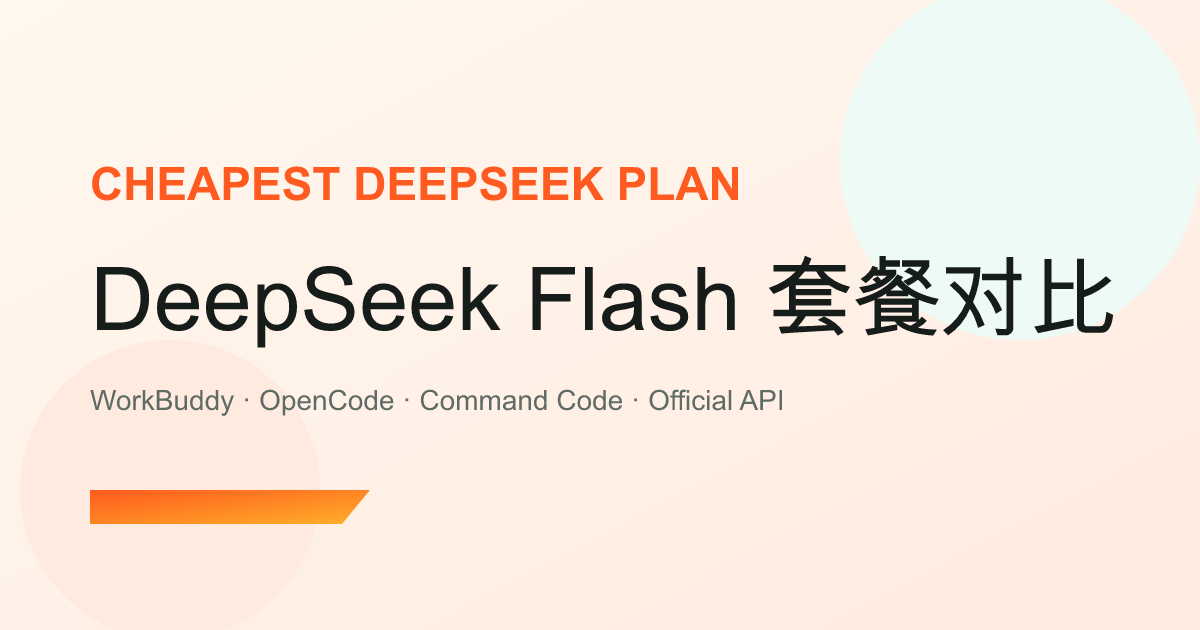
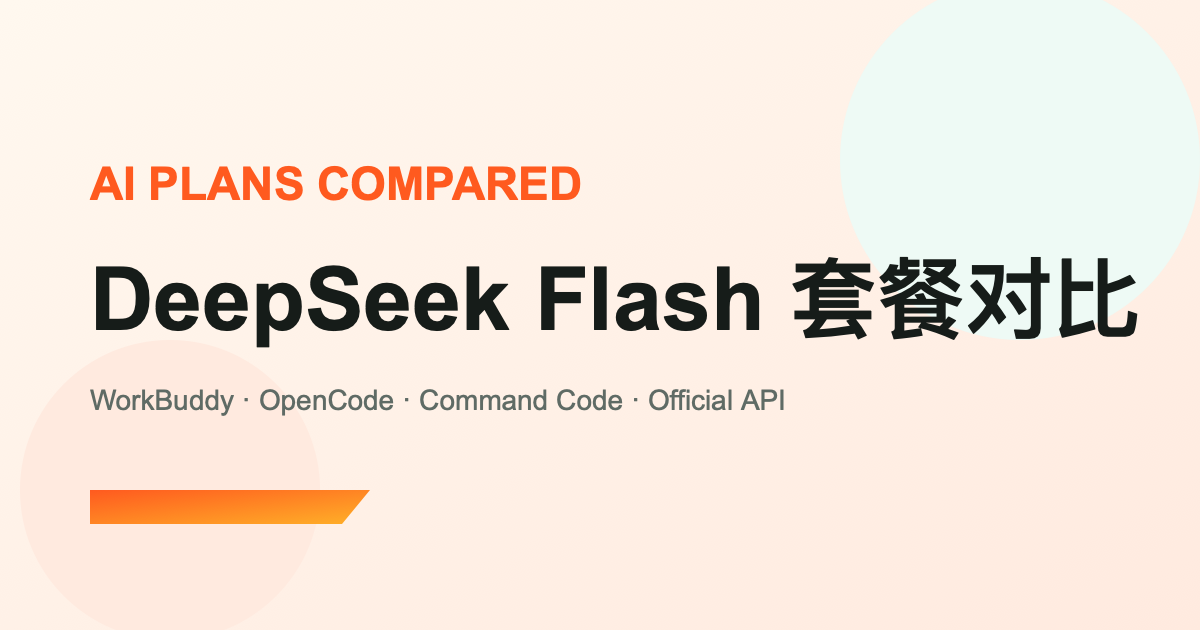
chore: rename site to AI Plans Compared (ai-plans-compared)

diff --git a/public/en/index.html b/public/en/index.html
@@ -8,23 +8,23 @@
   <meta name="keywords" content="cheapest DeepSeek plan, DeepSeek pricing, DeepSeek Flash, DeepSeek subscription, OpenCode Go, Command Code GOAT, WorkBuddy">
   <meta name="robots" content="index,follow,max-image-preview:large">
   <meta name="theme-color" content="#fff8ef">
-  <link rel="canonical" href="https://j4tmr.github.io/cheapest-deepseek-plan/en/">
-  <link rel="alternate" hreflang="zh-CN" href="https://j4tmr.github.io/cheapest-deepseek-plan/">
-  <link rel="alternate" hreflang="en" href="https://j4tmr.github.io/cheapest-deepseek-plan/en/">
-  <link rel="alternate" hreflang="x-default" href="https://j4tmr.github.io/cheapest-deepseek-plan/">
-  <link rel="alternate" type="application/json" href="https://j4tmr.github.io/cheapest-deepseek-plan/data/pricing.json">
-  <link rel="alternate" type="application/rss+xml" title="DeepSeek Flash pricing updates" href="https://j4tmr.github.io/cheapest-deepseek-plan/feed.xml">
-  <link rel="sitemap" type="application/xml" href="https://j4tmr.github.io/cheapest-deepseek-plan/sitemap.xml">
+  <link rel="canonical" href="https://j4tmr.github.io/ai-plans-compared/en/">
+  <link rel="alternate" hreflang="zh-CN" href="https://j4tmr.github.io/ai-plans-compared/">
+  <link rel="alternate" hreflang="en" href="https://j4tmr.github.io/ai-plans-compared/en/">
+  <link rel="alternate" hreflang="x-default" href="https://j4tmr.github.io/ai-plans-compared/">
+  <link rel="alternate" type="application/json" href="https://j4tmr.github.io/ai-plans-compared/data/pricing.json">
+  <link rel="alternate" type="application/rss+xml" title="DeepSeek Flash pricing updates" href="https://j4tmr.github.io/ai-plans-compared/feed.xml">
+  <link rel="sitemap" type="application/xml" href="https://j4tmr.github.io/ai-plans-compared/sitemap.xml">
   <link rel="manifest" href="../manifest.webmanifest">
   <link rel="icon" href="../favicon.svg" type="image/svg+xml">
   <meta property="og:type" content="website">
-  <meta property="og:site_name" content="Cheapest DeepSeek Plan">
+  <meta property="og:site_name" content="AI Plans Compared">
   <meta property="og:title" content="Cheapest DeepSeek Plan? $10 DeepSeek Flash Token Limits Compared (Nov 2026)">
   <meta property="og:description" content="OpenCode Go, Command Code GOAT, and WorkBuddy at roughly $10/month: estimated DeepSeek Flash tokens, cache-hit rates, and where the 5-hour and weekly usage walls hit.">
-  <meta property="og:url" content="https://j4tmr.github.io/cheapest-deepseek-plan/en/">
+  <meta property="og:url" content="https://j4tmr.github.io/ai-plans-compared/en/">
   <meta property="og:locale" content="en_US">
   <meta property="og:locale:alternate" content="zh_CN">
-  <meta property="og:image" content="https://j4tmr.github.io/cheapest-deepseek-plan/social.png">
+  <meta property="og:image" content="https://j4tmr.github.io/ai-plans-compared/social.png">
   <meta property="og:image:type" content="image/png">
   <meta property="og:image:width" content="1200">
   <meta property="og:image:height" content="630">
@@ -32,12 +32,12 @@
   <meta name="twitter:card" content="summary_large_image">
   <meta name="twitter:title" content="Cheapest DeepSeek Plan? $10 DeepSeek Flash Token Limits Compared (Nov 2026)">
   <meta name="twitter:description" content="OpenCode Go, Command Code GOAT, and WorkBuddy at roughly $10/month: estimated DeepSeek Flash tokens, cache-hit rates, and where the 5-hour and weekly usage walls hit.">
-  <meta name="twitter:image" content="https://j4tmr.github.io/cheapest-deepseek-plan/social.png">
+  <meta name="twitter:image" content="https://j4tmr.github.io/ai-plans-compared/social.png">
   <meta name="twitter:image:alt" content="DeepSeek Flash plans at $10: token and usage-wall comparison">
   <meta name="author" content="4qin">
   <link rel="author" href="https://www.4qin.com/">
   <link rel="stylesheet" href="../styles.css">
-  <script type="application/ld+json">{"@context":"https://schema.org","@type":"Dataset","name":"Cheapest DeepSeek Plan? $10 DeepSeek Flash Token Limits Compared (Nov 2026)","description":"OpenCode Go, Command Code GOAT, and WorkBuddy at roughly $10/month: estimated DeepSeek Flash tokens, cache-hit rates, and where the 5-hour and weekly usage walls hit.","url":"https://j4tmr.github.io/cheapest-deepseek-plan/en/","sameAs":"https://github.com/j4tmr/cheapest-deepseek-plan","license":"https://opensource.org/licenses/MIT","inLanguage":"en","dateModified":"2026-11-01","keywords":["cheapest DeepSeek plan","DeepSeek pricing","DeepSeek Flash","DeepSeek subscription","OpenCode Go","Command Code GOAT","WorkBuddy"],"variableMeasured":["OpenCode Go: ≈3.3B","Command Code GOAT: ≈3.1B","WorkBuddy Standard: ≈2.4B"],"creator":{"@type":"Organization","name":"Cheapest DeepSeek Plan"}}</script>
+  <script type="application/ld+json">{"@context":"https://schema.org","@type":"Dataset","name":"Cheapest DeepSeek Plan? $10 DeepSeek Flash Token Limits Compared (Nov 2026)","description":"OpenCode Go, Command Code GOAT, and WorkBuddy at roughly $10/month: estimated DeepSeek Flash tokens, cache-hit rates, and where the 5-hour and weekly usage walls hit.","url":"https://j4tmr.github.io/ai-plans-compared/en/","sameAs":"https://github.com/j4tmr/ai-plans-compared","license":"https://opensource.org/licenses/MIT","inLanguage":"en","dateModified":"2026-11-01","keywords":["cheapest DeepSeek plan","DeepSeek pricing","DeepSeek Flash","DeepSeek subscription","OpenCode Go","Command Code GOAT","WorkBuddy"],"variableMeasured":["OpenCode Go: ≈3.3B","Command Code GOAT: ≈3.1B","WorkBuddy Standard: ≈2.4B"],"creator":{"@type":"Organization","name":"AI Plans Compared"}}</script>
 <script type="application/ld+json">{"@context":"https://schema.org","@type":"FAQPage","inLanguage":"en","mainEntity":[{"@type":"Question","name":"Which plan gives the most DeepSeek Flash tokens for about $10?","acceptedAnswer":{"@type":"Answer","text":"Based on the measured cache-hit rates in the source article: OpenCode Go is roughly 3.3B tokens, Command Code GOAT roughly 3.1B, and WorkBuddy Standard roughly 2.4B. All counts include cached tokens."}},{"@type":"Question","name":"What does hitting the usage wall mean?","acceptedAnswer":{"@type":"Answer","text":"OpenCode has 5-hour and weekly limits. Command Code caps usage at $20 per 5 hours and $50 per week. During heavy use these windows run out before the monthly quota. WorkBuddy simply stops when its credits are exhausted."}},{"@type":"Question","name":"Are these token counts official?","acceptedAnswer":{"@type":"Answer","text":"No. The providers publish dollar quotas or credits, not token counts. These estimates use the author's measured usage, cache-hit rates, and official DeepSeek prices from October 14-30, 2026."}}]}</script>
 </head>
 <body>
@@ -55,7 +55,7 @@
   </aside>
   <header>
     <div class="shell header-row">
-      <a class="brand" href="../" hreflang="en">Cheapest DeepSeek Plan</a>
+      <a class="brand" href="../" hreflang="en">AI Plans Compared</a>
       <nav aria-label="Page navigation">
         <a href="#plans">Token comparison</a><a href="#wall">Usage walls</a><a href="#method">Method</a>
         <a class="lang-switch" href="../" hreflang="zh-CN" lang="zh-CN">中文</a>
@@ -201,7 +201,7 @@
   <footer>
     <div class="shell">
       <p>Prices and limits are subject to change; token counts are estimates, not official guarantees. This page is not purchase advice.</p>
-      <p><a href="https://www.4qin.com/p/three-plans-70-yuan-deepseek-tokens-20261030" rel="noopener">Source article</a> · <a href="https://github.com/j4tmr/cheapest-deepseek-plan">GitHub</a> · MIT</p>
+      <p><a href="https://www.4qin.com/p/three-plans-70-yuan-deepseek-tokens-20261030" rel="noopener">Source article</a> · <a href="https://github.com/j4tmr/ai-plans-compared">GitHub</a> · MIT</p>
     </div>
   </footer>
 </body>

diff --git a/public/index.html b/public/index.html
@@ -8,23 +8,23 @@
   <meta name="keywords" content="最便宜的 DeepSeek 套餐, DeepSeek 套餐, DeepSeek Flash, 70元, 10美元, OpenCode Go, Command Code GOAT, WorkBuddy">
   <meta name="robots" content="index,follow,max-image-preview:large">
   <meta name="theme-color" content="#fff8ef">
-  <link rel="canonical" href="https://j4tmr.github.io/cheapest-deepseek-plan/">
-  <link rel="alternate" hreflang="zh-CN" href="https://j4tmr.github.io/cheapest-deepseek-plan/">
-  <link rel="alternate" hreflang="en" href="https://j4tmr.github.io/cheapest-deepseek-plan/en/">
-  <link rel="alternate" hreflang="x-default" href="https://j4tmr.github.io/cheapest-deepseek-plan/">
-  <link rel="alternate" type="application/json" href="https://j4tmr.github.io/cheapest-deepseek-plan/data/pricing.json">
-  <link rel="alternate" type="application/rss+xml" title="DeepSeek Flash pricing updates" href="https://j4tmr.github.io/cheapest-deepseek-plan/feed.xml">
-  <link rel="sitemap" type="application/xml" href="https://j4tmr.github.io/cheapest-deepseek-plan/sitemap.xml">
+  <link rel="canonical" href="https://j4tmr.github.io/ai-plans-compared/">
+  <link rel="alternate" hreflang="zh-CN" href="https://j4tmr.github.io/ai-plans-compared/">
+  <link rel="alternate" hreflang="en" href="https://j4tmr.github.io/ai-plans-compared/en/">
+  <link rel="alternate" hreflang="x-default" href="https://j4tmr.github.io/ai-plans-compared/">
+  <link rel="alternate" type="application/json" href="https://j4tmr.github.io/ai-plans-compared/data/pricing.json">
+  <link rel="alternate" type="application/rss+xml" title="DeepSeek Flash pricing updates" href="https://j4tmr.github.io/ai-plans-compared/feed.xml">
+  <link rel="sitemap" type="application/xml" href="https://j4tmr.github.io/ai-plans-compared/sitemap.xml">
   <link rel="manifest" href="manifest.webmanifest">
   <link rel="icon" href="favicon.svg" type="image/svg+xml">
   <meta property="og:type" content="website">
-  <meta property="og:site_name" content="Cheapest DeepSeek Plan">
+  <meta property="og:site_name" content="AI 套餐对比">
   <meta property="og:title" content="最便宜的 DeepSeek 套餐？70 元档 Flash token 与撞墙对比（2026年11月更新）">
   <meta property="og:description" content="OpenCode Go、Command Code GOAT、WorkBuddy 标准版：同样 10 美元 / 70 元，大概能用多少 DeepSeek Flash token，5 小时和周限额哪里会撞墙。">
-  <meta property="og:url" content="https://j4tmr.github.io/cheapest-deepseek-plan/">
+  <meta property="og:url" content="https://j4tmr.github.io/ai-plans-compared/">
   <meta property="og:locale" content="zh_CN">
   <meta property="og:locale:alternate" content="en_US">
-  <meta property="og:image" content="https://j4tmr.github.io/cheapest-deepseek-plan/social.png">
+  <meta property="og:image" content="https://j4tmr.github.io/ai-plans-compared/social.png">
   <meta property="og:image:type" content="image/png">
   <meta property="og:image:width" content="1200">
   <meta property="og:image:height" content="630">
@@ -32,12 +32,12 @@
   <meta name="twitter:card" content="summary_large_image">
   <meta name="twitter:title" content="最便宜的 DeepSeek 套餐？70 元档 Flash token 与撞墙对比（2026年11月更新）">
   <meta name="twitter:description" content="OpenCode Go、Command Code GOAT、WorkBuddy 标准版：同样 10 美元 / 70 元，大概能用多少 DeepSeek Flash token，5 小时和周限额哪里会撞墙。">
-  <meta name="twitter:image" content="https://j4tmr.github.io/cheapest-deepseek-plan/social.png">
+  <meta name="twitter:image" content="https://j4tmr.github.io/ai-plans-compared/social.png">
   <meta name="twitter:image:alt" content="70 元 DeepSeek Flash 套餐 token 对比">
   <meta name="author" content="4qin">
   <link rel="author" href="https://www.4qin.com/">
   <link rel="stylesheet" href="styles.css">
-  <script type="application/ld+json">{"@context":"https://schema.org","@type":"Dataset","name":"最便宜的 DeepSeek 套餐？70 元档 Flash token 与撞墙对比（2026年11月更新）","description":"OpenCode Go、Command Code GOAT、WorkBuddy 标准版：同样 10 美元 / 70 元，大概能用多少 DeepSeek Flash token，5 小时和周限额哪里会撞墙。","url":"https://j4tmr.github.io/cheapest-deepseek-plan/","sameAs":"https://github.com/j4tmr/cheapest-deepseek-plan","license":"https://opensource.org/licenses/MIT","inLanguage":"zh-CN","dateModified":"2026-11-01","keywords":["最便宜的 DeepSeek 套餐","DeepSeek 套餐","DeepSeek Flash","70元","10美元","OpenCode Go","Command Code GOAT","WorkBuddy"],"variableMeasured":["OpenCode Go: 约 33 亿","Command Code GOAT: 约 31 亿","WorkBuddy 标准版: 约 24 亿"],"creator":{"@type":"Organization","name":"Cheapest DeepSeek Plan"}}</script>
+  <script type="application/ld+json">{"@context":"https://schema.org","@type":"Dataset","name":"最便宜的 DeepSeek 套餐？70 元档 Flash token 与撞墙对比（2026年11月更新）","description":"OpenCode Go、Command Code GOAT、WorkBuddy 标准版：同样 10 美元 / 70 元，大概能用多少 DeepSeek Flash token，5 小时和周限额哪里会撞墙。","url":"https://j4tmr.github.io/ai-plans-compared/","sameAs":"https://github.com/j4tmr/ai-plans-compared","license":"https://opensource.org/licenses/MIT","inLanguage":"zh-CN","dateModified":"2026-11-01","keywords":["最便宜的 DeepSeek 套餐","DeepSeek 套餐","DeepSeek Flash","70元","10美元","OpenCode Go","Command Code GOAT","WorkBuddy"],"variableMeasured":["OpenCode Go: 约 33 亿","Command Code GOAT: 约 31 亿","WorkBuddy 标准版: 约 24 亿"],"creator":{"@type":"Organization","name":"AI 套餐对比"}}</script>
 <script type="application/ld+json">{"@context":"https://schema.org","@type":"FAQPage","inLanguage":"zh-CN","mainEntity":[{"@type":"Question","name":"同样 70 元，哪家能跑的 DeepSeek Flash token 最多？","acceptedAnswer":{"@type":"Answer","text":"按原文的实测缓存命中率估算：OpenCode Go 约 33 亿、Command Code GOAT 约 31 亿、WorkBuddy 标准版约 24 亿，都是含缓存 token。"}},{"@type":"Question","name":"什么是撞墙？","acceptedAnswer":{"@type":"Answer","text":"OpenCode 有 5 小时和每周限额，Command Code 有 5 小时 $20、每周 $50 的额度上限。短时间猛跑时，先卡住的是这些窗口额度，而不是月额度。WorkBuddy 则是积分扣完为止。"}},{"@type":"Question","name":"这些 token 数是官方数字吗？","acceptedAnswer":{"@type":"Answer","text":"不是。官方只给美元额度或积分，token 数是按作者 2026-10-14 至 10-30 的实测用量、缓存命中率和官方单价估算出来的。"}}]}</script>
 </head>
 <body>
@@ -55,7 +55,7 @@
   </aside>
   <header>
     <div class="shell header-row">
-      <a class="brand" href="./" hreflang="zh-CN">Cheapest DeepSeek Plan</a>
+      <a class="brand" href="./" hreflang="zh-CN">AI 套餐对比</a>
       <nav aria-label="站内导航">
         <a href="#plans">token 对比</a><a href="#wall">撞墙</a><a href="#method">数字怎么来的</a>
         <a class="lang-switch" href="en/" hreflang="en" lang="en">English</a>
@@ -201,7 +201,7 @@
   <footer>
     <div class="shell">
       <p>价格和限额以各平台官方页为准；token 数是实测估算，不是官方承诺。本项目不构成购买建议。</p>
-      <p><a href="https://www.4qin.com/p/three-plans-70-yuan-deepseek-tokens-20261030" rel="noopener">原文</a> · <a href="https://github.com/j4tmr/cheapest-deepseek-plan">GitHub</a> · MIT</p>
+      <p><a href="https://www.4qin.com/p/three-plans-70-yuan-deepseek-tokens-20261030" rel="noopener">原文</a> · <a href="https://github.com/j4tmr/ai-plans-compared">GitHub</a> · MIT</p>
     </div>
   </footer>
 </body>

diff --git a/README.md b/README.md
@@ -1,17 +1,17 @@
-# Cheapest DeepSeek Plan
+# AI Plans Compared
 
-最便宜的 DeepSeek 套餐：同样 **70 元 / $10** 这一档，DeepSeek Flash 大概能跑多少 token，哪里会撞墙。
+AI 订阅与套餐对比站。当前页面：最便宜的 DeepSeek 套餐——同样 **70 元 / $10** 这一档，DeepSeek Flash 大概能跑多少 token，哪里会撞墙；之后会扩展到其他模型和套餐。
 
 The cheapest DeepSeek plans around **$10/month**: estimated DeepSeek Flash token counts, cache-hit rates, and where the 5-hour / weekly usage walls hit.
 
-- 中文页面：https://j4tmr.github.io/cheapest-deepseek-plan/
-- English page: https://j4tmr.github.io/cheapest-deepseek-plan/en/
+- 中文页面：https://j4tmr.github.io/ai-plans-compared/
+- English page: https://j4tmr.github.io/ai-plans-compared/en/
 
 原文：https://www.4qin.com/p/three-plans-70-yuan-deepseek-tokens-20261030
 
 ## 推广 Sponsored
 
-[![88API Claude 中转站：Opus / Sonnet / Haiku 全系模型，注册送测试额度](https://j4tmr.github.io/cheapest-deepseek-plan/88api-banner.svg)](https://88api.ai/sign-up?aff=dlVM)
+[![88API Claude 中转站：Opus / Sonnet / Haiku 全系模型，注册送测试额度](https://j4tmr.github.io/ai-plans-compared/88api-banner.svg)](https://88api.ai/sign-up?aff=dlVM)
 
 - [88API](https://88api.ai/sign-up?aff=dlVM)：Claude 中转站，Claude Code 直连，Opus / Sonnet / Haiku 全系模型可用，注册送测试额度。
 - [WorkBuddy](https://www.workbuddy.cn/events/invite?inviteCode=6ueawbhr4)：AI 办公助手，通过邀请注册可领 2000 积分。
